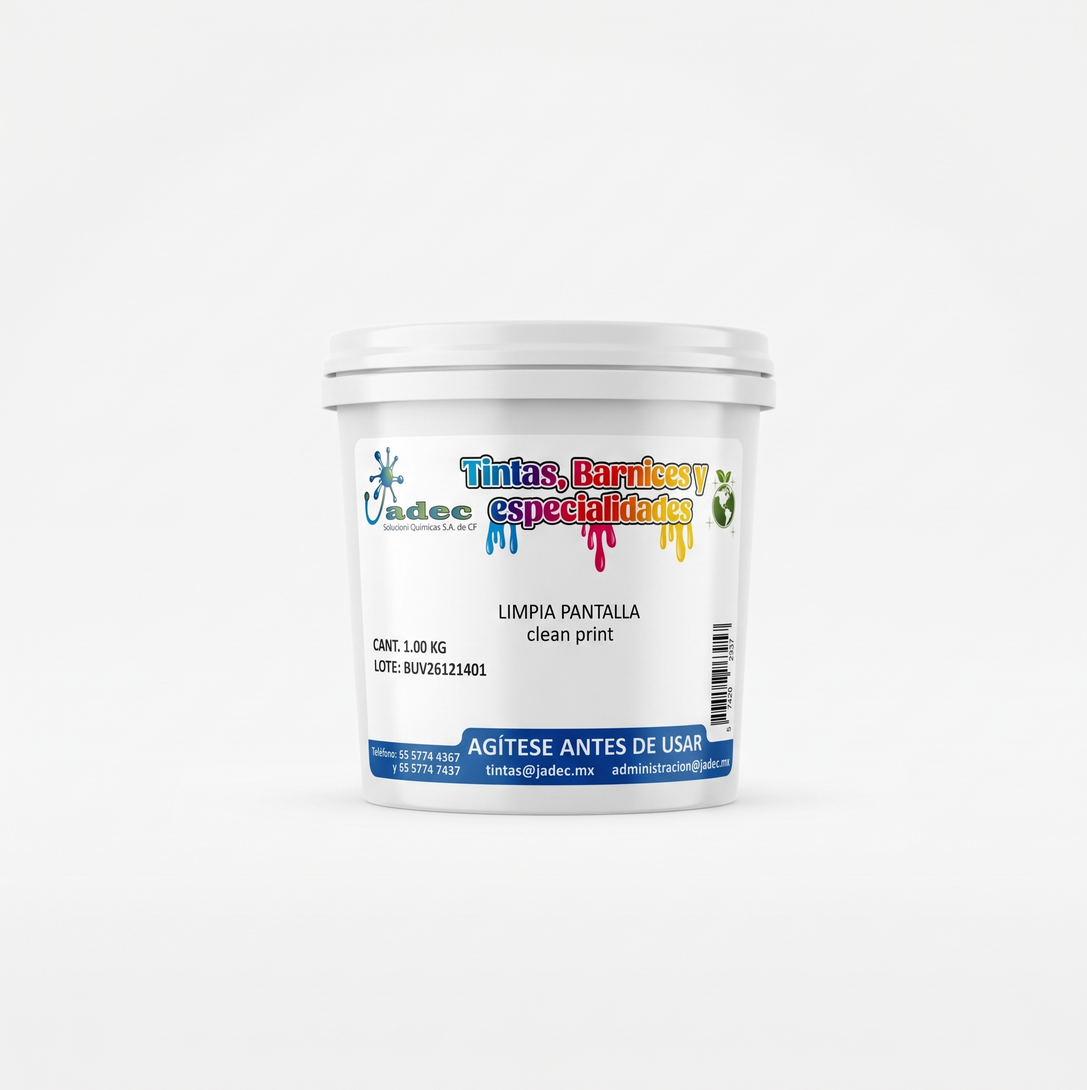
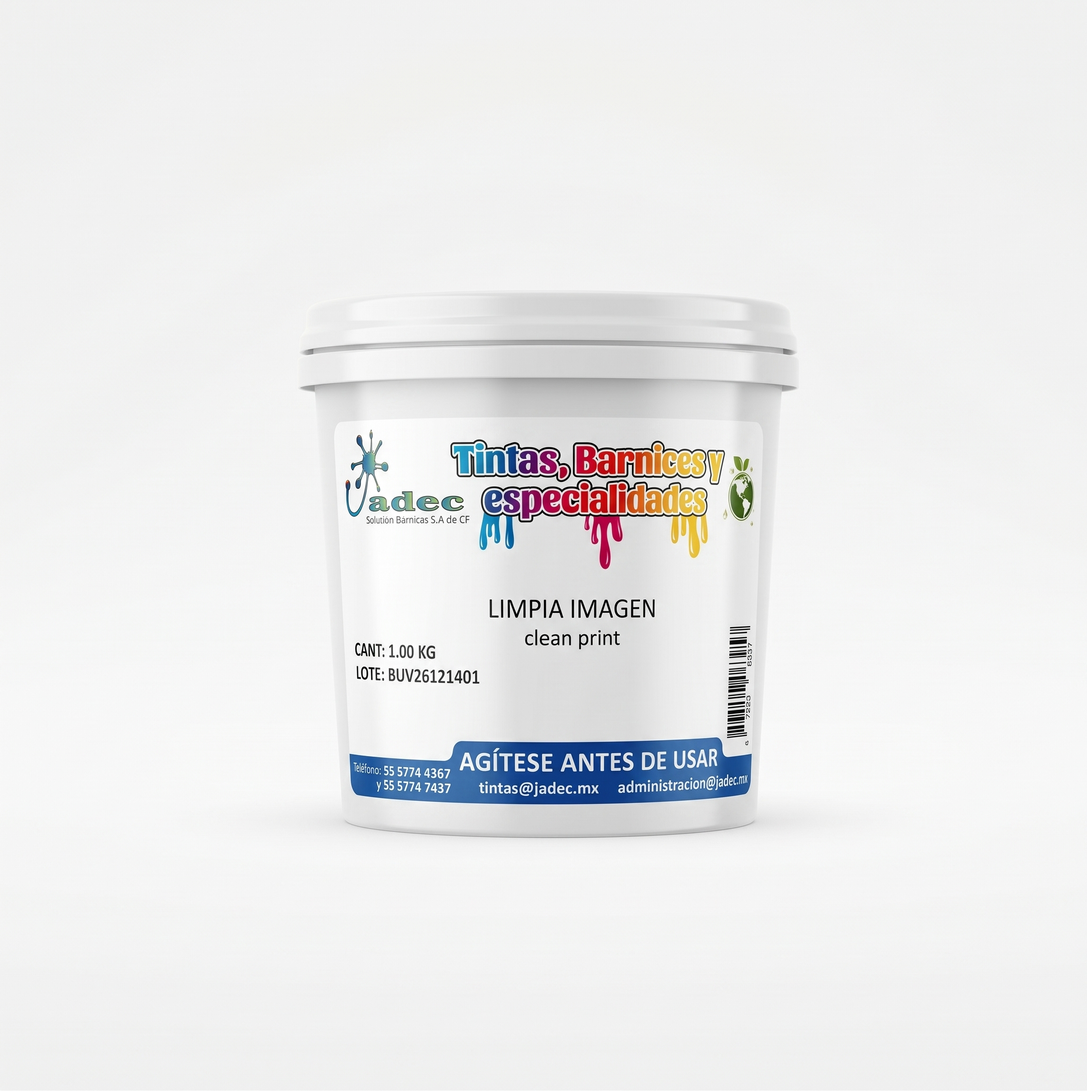
agregar una imagen en aditivos en el html de tintas

Changed region(s): [[0.2812, 0.2493, 0.75, 0.592], [0.3125, 0.5609, 0.7188, 0.779], [0.3125, 0.5609, 0.4375, 0.6232]]

diff --git a/tintas.html b/tintas.html
@@ -158,8 +158,8 @@
               <img src="assets/touv-1.webp" alt="Tinta Magenta Offset UV JADEC" class="catalog-card__img" loading="lazy">
             </div>
             <div class="catalog-card__body">
-              <span class="catalog-card__category">TINTA OFFSET UV</span>
-              <h3 class="catalog-card__title">Magenta Offset UV</h3>
+              <span class="catalog-card__category"></span>
+              <h3 class="catalog-card__title">Tinta Offset UV</h3>
               <p class="catalog-card__desc">
                 Formulación de alta concentración pigmentaria y viscosidad estable, ideal para cuatricromías de alta fidelidad y velocidad en prensa.
               </p>
@@ -176,7 +176,7 @@
               <img src="assets/touv-2.webp" alt="Tinta Base Blanco Opaco Offset UV JADEC" class="catalog-card__img" loading="lazy">
             </div>
             <div class="catalog-card__body">
-              <span class="catalog-card__category">BASE OFFSET UV</span>
+              <span class="catalog-card__category"></span>
               <h3 class="catalog-card__title">Blanco Opaco Offset UV</h3>
               <p class="catalog-card__desc">
                 Base cubriente de máxima opacidad para fondos uniformes sobre sustratos oscuros, metalizados o transparentes con curado instantáneo.
@@ -194,8 +194,8 @@
               <img src="assets/touvm-3.webp" alt="Tinta Oro Metálico UV JADEC" class="catalog-card__img" loading="lazy">
             </div>
             <div class="catalog-card__body">
-              <span class="catalog-card__category">METÁLICO UV</span>
-              <h3 class="catalog-card__title">Oro UV</h3>
+              <span class="catalog-card__category"></span>
+              <h3 class="catalog-card__title">Métalico UV</h3>
               <p class="catalog-card__desc">
                 Pigmentación metálica prémium de brillo reflectivo superior y resistencia al roce para empaques de lujo y etiquetas de alto impacto visual.
               </p>
@@ -350,14 +350,14 @@
             <span class="section-subtitle-green"></span>
             <h2 class="section-title">TINTAS PANTONE</h2>
             <p class="section-description">
-            Especialidad en formulación y desarrollo de recetas directas con tolerancias estrictas, asegurando máxima repetibilidad y fidelidad de marca en cualquier sustrato.
+            Especialidad en formulación y desarrollo de pantones con tolerancias estrictas, asegurando máxima repetibilidad y fidelidad de marca en cualquier sustrato.
           </p>
           </header>
 
 <!-- Contenedor del Acordeón Horizontal Expandible -->
         <div class="pantone-accordion" id="pantoneAccordion" role="region" aria-label="Catálogo interactivo de Tintas Pantone">
           
-          <!-- Panel 1 -->
+<!-- Panel 1 -->
           <article class="pantone-panel is-active" tabindex="0" role="button" aria-expanded="true" aria-label="Panel 1: Tonos Sólidos y Spot Colors">
             <!-- Imagen de Fondo y Capas de Contraste -->
             <img src="assets/pantone-3.webp" alt="Pantone Sólido y Spot Colors" class="pantone-panel__bg" loading="lazy">
@@ -650,7 +650,7 @@
             <button type="button" class="additive-tab" role="tab" aria-selected="false" aria-controls="panel-aditivo-6" id="tab-aditivo-6" data-target="panel-aditivo-6">
               <span class="tab-indicator" aria-hidden="true"></span>
               <div class="tab-meta">
-                <span class="tab-name">LIMPIA PANTALLA</span>
+                <span class="tab-name">LIMPIA IMAGEN</span>
                 <span class="tab-sub">clean print</span>
               </div>
               <span class="tab-num">06</span>
@@ -767,7 +767,7 @@
                 <!-- Contenedor Inferior: Descripción Técnica, Chips y Botón de Cotización -->
                 <div class="additive-panel__bottom">
                   <p class="additive-panel__desc">
-                    Formulación fluida que reduce la viscosidad dinámica de la tinta sin alterar el brillo.
+                    Formulación fluida que reduce la viscosidad dinámica de la tinta sin alterar el desempeño.
                   </p>
                   
                   <div class="additive-panel__action">
@@ -801,7 +801,7 @@
                 <!-- Contenedor Inferior: Descripción Técnica, Chips y Botón de Cotización -->
                 <div class="additive-panel__bottom">
                   <p class="additive-panel__desc">
-                    Compuesto de acción rápida diseñado para desestabilizar y eliminar la microespuma y burbujas de aire generadas por la agitación y recirculación de tinta.
+                    Compuesto de acción rápida diseñado para eliminar la microespuma y burbujas de aire generadas por la agitación y recirculación de tinta.
                   </p>
                   
                   <div class="additive-panel__action">
@@ -861,7 +861,7 @@
                 <div class="additive-panel__top-right">
                   <div class="additive-panel__header">
                     <span class="additive-panel__tag"></span>
-                    <h3 class="additive-panel__title">LIMPIA PANTALLA</h3>
+                    <h3 class="additive-panel__title">LIMPIA IMAGEN</h3>
                     <span class="additive-panel__subname"></span>
                   </div>
                 </div>
@@ -869,7 +869,7 @@
                 <!-- Contenedor Inferior: Descripción Técnica, Chips y Botón de Cotización -->
                 <div class="additive-panel__bottom">
                   <p class="additive-panel__desc">
-                    Solución técnica diseñada para mantener los alvéolos del rodillo libres de tinta seca o cristalizada.
+                    Solución técnica diseñada para mantener las impresiones nítidas durante el proceso.
                   </p>
                   
                   <div class="additive-panel__action">
@@ -903,7 +903,7 @@
                 <!-- Contenedor Inferior: Descripción Técnica, Chips y Botón de Cotización -->
                 <div class="additive-panel__bottom">
                   <p class="additive-panel__desc">
-                    Detergente industrial de baja alcalinidad y alto poder emulsionante. Remueve eficientemente residuos de tintas base agua, solvente y UV.
+                    Limpiador industrial de baja alcalinidad y alto poder emulsionante. Remueve eficientemente residuos de tintas base agua y UV.
                   </p>
                   
                   <div class="additive-panel__action">
@@ -924,7 +924,7 @@
         <footer class="site-footer-simple">
         <div class="footer-simple-container">
         <p class="footer-simple-text">
-        JADEC Productos Químicos S.A. de C.V. — Distribuidor Autorizado ACTEGA® Artes Gráficas
+        Soluciones Químicas Jadec S.A. de C.V. —  Distribuidor Autorizado en Marcas Líderes Mundiales y Nacionales, Artes Gráficas
       </p>
       </div>
       </footer>
